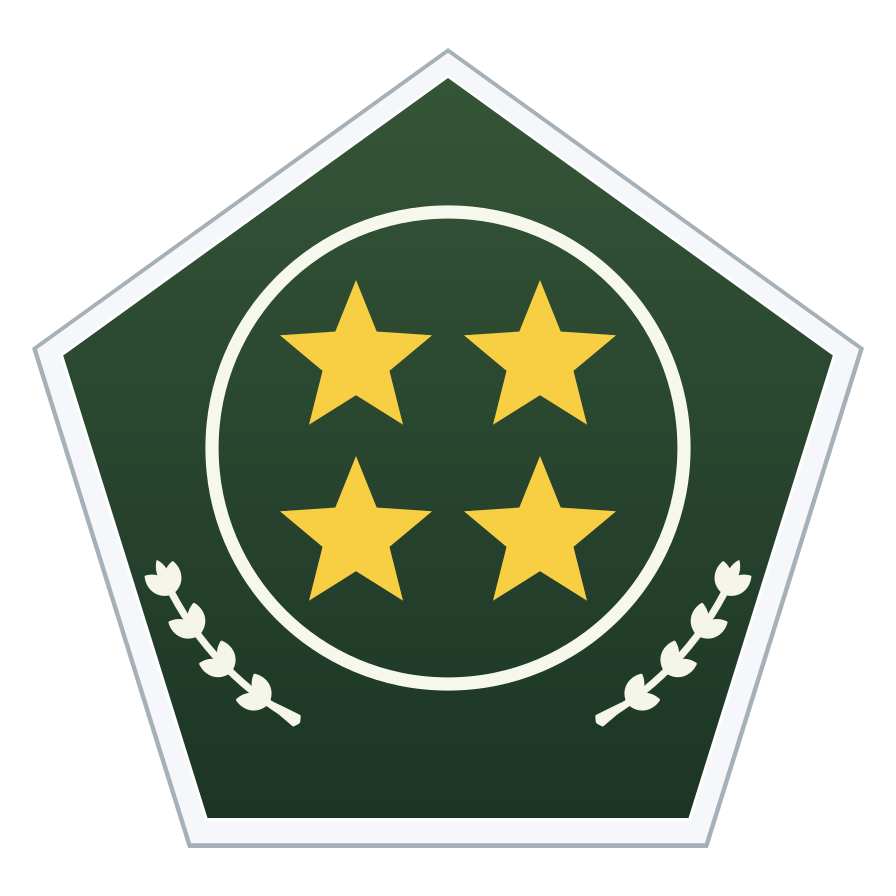
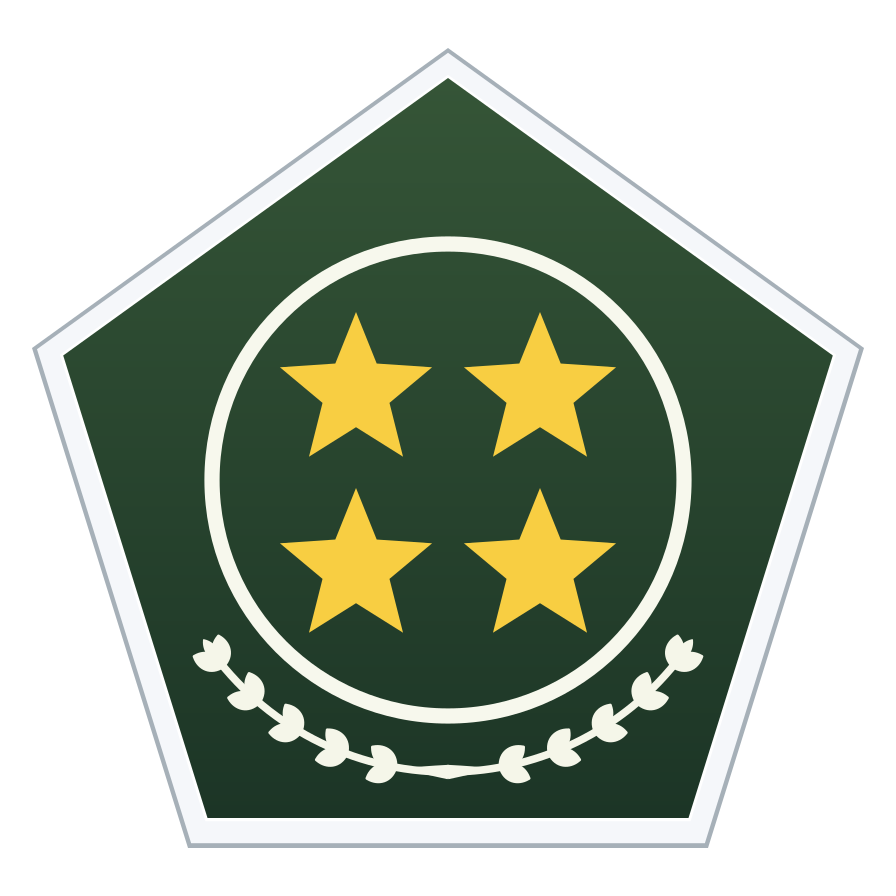
fix: center junior rank rings and join mini laurel roots

Changed region(s): [[0.1562, 0.2188, 0.8438, 0.875]]

diff --git a/src/game/rankBadgeAssets.ts b/src/game/rankBadgeAssets.ts
@@ -14,10 +14,10 @@ export const RANK_BADGE_ASSETS = {
   badge_nco_1: { src: "/assets/rank-badges/ha-si.png?v=bb63086d0176", outerWidthRatio: 832 / RANK_BADGE_SOURCE_SIZE },
   badge_nco_2: { src: "/assets/rank-badges/trung-si.png?v=93dcbb7c6499", outerWidthRatio: 832 / RANK_BADGE_SOURCE_SIZE },
   badge_nco_3: { src: "/assets/rank-badges/thuong-si.png?v=064ff136b099", outerWidthRatio: 832 / RANK_BADGE_SOURCE_SIZE },
-  badge_junior_1: { src: "/assets/rank-badges/thieu-uy.png?v=93d6241949bb", outerWidthRatio: 832 / RANK_BADGE_SOURCE_SIZE },
-  badge_junior_2: { src: "/assets/rank-badges/trung-uy.png?v=6b9c45210b17", outerWidthRatio: 832 / RANK_BADGE_SOURCE_SIZE },
-  badge_junior_3: { src: "/assets/rank-badges/thuong-uy.png?v=94e6093f322f", outerWidthRatio: 832 / RANK_BADGE_SOURCE_SIZE },
-  badge_junior_4: { src: "/assets/rank-badges/dai-uy.png?v=283f3b2cbdc6", outerWidthRatio: 832 / RANK_BADGE_SOURCE_SIZE },
+  badge_junior_1: { src: "/assets/rank-badges/thieu-uy.png?v=257232ba2990", outerWidthRatio: 832 / RANK_BADGE_SOURCE_SIZE },
+  badge_junior_2: { src: "/assets/rank-badges/trung-uy.png?v=9c83b4880719", outerWidthRatio: 832 / RANK_BADGE_SOURCE_SIZE },
+  badge_junior_3: { src: "/assets/rank-badges/thuong-uy.png?v=82741e69aea4", outerWidthRatio: 832 / RANK_BADGE_SOURCE_SIZE },
+  badge_junior_4: { src: "/assets/rank-badges/dai-uy.png?v=9e353520281b", outerWidthRatio: 832 / RANK_BADGE_SOURCE_SIZE },
   badge_field_1: { src: "/assets/rank-badges/thieu-ta.png?v=d65a8dafd3a5", outerWidthRatio: 728 / RANK_BADGE_SOURCE_SIZE },
   badge_field_2: { src: "/assets/rank-badges/trung-ta.png?v=f6a03f27cf65", outerWidthRatio: 728 / RANK_BADGE_SOURCE_SIZE },
   badge_field_3: { src: "/assets/rank-badges/thuong-ta.png?v=4587d0785748", outerWidthRatio: 728 / RANK_BADGE_SOURCE_SIZE },

diff --git a/docs/rank-badges-png.md b/docs/rank-badges-png.md
@@ -1,71 +1,46 @@
 # Bộ huy hiệu vẽ lại sắc nét
 
-Cập nhật nguyệt quế trang nghiêm ngày 08/09/2026: **24 PNG RGBA 896×896**, dựng bằng hình học vector. Ảnh tham chiếu chỉ dùng để quan sát thiết kế; lần này không tham khảo thêm internet. Quy trình render không mở ảnh tham chiếu hay PNG cũ, không crop, trace pixel, upscale hoặc nhúng bitmap vào vector.
+Bộ asset gồm **24 PNG RGBA 896×896**, dựng bằng hình học vector. Ảnh tham chiếu chỉ dùng để quan sát thiết kế; renderer không đọc ảnh tham chiếu hay PNG cũ, không crop, trace pixel, upscale hoặc nhúng bitmap. Lần sửa chi tiết cấp Úy ngày 08/09/2026 không tham khảo thêm internet.
 
-![Bộ 24 huy hiệu mới](rank-badges-redraw.webp)
+![Bộ 24 huy hiệu hiện tại](rank-badges-redraw.webp)
 
-## Tinh chỉnh nguyệt quế và cân bằng thị giác
+## Sửa chi tiết bốn huy hiệu cấp Úy
 
-Lần polish này chỉ thay **17 huy hiệu**: bốn cấp Úy, bốn cấp Tá, bốn cấp Tướng, bốn cấp Tứ Tinh Thủ Hộ và Tổng Tư Lệnh. Bảy huy hiệu Học Viên/Binh/Hạ sĩ quan giữ nguyên từng byte SVG/PNG.
+So với `6897ee5`, chỉ **Thiếu Úy, Trung Úy, Thượng Úy, Đại Úy** thay đổi artwork. Hai mươi PNG/SVG còn lại giữ nguyên nội dung; không đổi tên file, Badge ID, thứ tự cấp, màu nền, viền ngũ giác, số sao hay kiểu sao flat.
 
-- **Gốc/thân/lá chung:** thêm gốc cành thuôn, rộng hơn thân trước cặp lá đầu tiên. Thân liên tục, lá có bụng đầy và chóp bo nhẹ bằng đường cong Bézier; thêm lá tận cùng để thân không kết thúc bằng nét gai trơ. Hai bên dùng cùng hình học phản chiếu.
-- **Úy:** hai nhánh mini đối xứng, tăng từ ba lên bốn cặp lá mỗi nhánh, bước góc 9 độ, thân tăng từ 1,6 lên 1,8 đơn vị. Nhánh ôm hai góc dưới, giữ khoảng hở với vòng trắng, không biến thành vòng nguyệt quế lớn.
-- **Tá:** tăng từ bốn lên sáu cặp lá mỗi bên, bước góc 12 độ. Lá ngắn và đầy hơn, thân tăng từ 1,7 lên 2,1 đơn vị, cuống giao 2,4; đầu cành có lá mềm gọn, tránh dáng dài/thưa giống bông lúa.
-- **Định tâm Úy/Tá:** `officerRing()` và cụm sao cùng dùng `BADGE_CENTER = 112`, tâm `(112,112)` trên canvas logic 224. Đây cũng là tâm bounding box của ngũ giác/lục giác; không bù bằng CSS hay offset riêng từng cấp. Bán kính vòng trắng giữ 59 cho Úy, 57 cho Tá. Nhánh lá được dựng quanh cùng tâm và đối xứng qua trục dọc, có khoảng hở với vòng trắng để giảm cảm giác bị kéo xuống đáy. So sánh trực tiếp cả bốn huy hiệu mỗi nhóm ở cùng kích thước.
-- **Tướng:** giữ cung tròn SVG `A65 65`; tăng từ 10 lên 12 cặp lá mỗi bên, bước góc đều 14 độ. Thân tăng từ 1,6 lên 2,1, cuống giao 2,5 đơn vị; gốc rõ hơn, lá đầy hơn và đỉnh chụm gọn. Cụm sao giữ nguyên.
-- **Thủ Hộ:** cùng vòng tròn bán kính 65 và 12 cặp lá mỗi bên, thân 2,5 và cuống giao 2,9 đơn vị; lá đầy hơn nhóm Tướng, giữ ánh vàng và gân lá tinh tế. Sao ceremonial giữ nguyên hình dáng, bán kính và sắc độ.
-- **Tổng Tư Lệnh:** năm nhánh quay đều từng 72 độ. Mỗi nhánh nối hai điểm lõm dùng chung với nhánh kế bên và vươn tới một đỉnh sao; có gốc thuôn 3,8 và thân 2 đơn vị. Thay các hướng lá đặt riêng bằng quy tắc tiếp tuyến/pháp tuyến của thân, ba cặp trên mỗi nửa nhánh, thu nhỏ dần về đỉnh. Giữ đối xứng và khoảng thoáng quanh sao trung tâm bán kính 45, không đổi khung vàng.
+- **Cân bằng thị giác:** ngũ giác có phần thân dưới rộng hơn nên tâm bounding box không đủ làm chuẩn thị giác. `JUNIOR_OPTICAL_OFFSET_Y = 8` hạ vòng và cụm sao từ (112,112) xuống (112,120) trên canvas logic 224. Bán kính vòng giữ 59. Cặp nguyệt quế dùng cùng offset, tạo bố cục thấp hơn và liền khối. Đối chiếu cả bốn cấp cùng kích thước với cấp Tá; không bù riêng từng huy hiệu hoặc bằng CSS.
+- **Vòng kín:** dùng một phần tử SVG circle nguyên vẹn, không dash, clip hay mask. Nét đều tăng từ 3,3 lên 3,8 đơn vị để rõ hơn khi thu nhỏ. Vòng được vẽ sau phần cành lá; sao giữ trong vòng. Kiểm tra trực tiếp chu vi raster của cả bốn PNG ở 896/224/96/50/24px.
+- **Gốc chụm giữa:** hai thân cung tròn cùng xuất phát từ (112,193) sau offset, phản chiếu qua trục dọc. Mỗi gốc rộng 3,61 đơn vị rồi thuôn về thân 1,9; thân tỏa trái/phải và vòng lên, không còn hai cụm rời.
+- **Mini laurel:** mỗi bên có năm cặp lá và một lá tận cùng, bước góc 10 độ, lá đầy hơn nhưng vẫn nhỏ hơn cấp Tá. Cung chỉ 55 độ so với 74 độ ở Tá, nên cặp cành thấp và gọn hơn. Lá gắn vào thân liên tục, chóp bo nhẹ; giữ khoảng trống với vòng trắng và cụm sao.
+- **Hình học chung:** `juniorOfficerBase()` dựng cùng nền, cành và vòng cho cả bốn huy hiệu. Chỉ nhóm sao 1/2/3/4 thay đổi; hình sao, màu và bán kính 20 giữ nguyên, toàn cụm chỉ dịch xuống 8 đơn vị.
 
-Các chi tiết được dựng lại từ đường vector, không sử dụng pixel/crop từ ảnh tham chiếu. Không đổi shape nền, palette, số sao, kiểu sao, tên file hay Badge ID. Alpha đường bao và outer ratio của cả 24 PNG giữ nguyên, nên `RankBadge`, `RankTierProgress` và tất cả caller không cần sửa. Registry chỉ cập nhật hash của 17 PNG thay đổi để trình duyệt nhận ảnh mới.
+## Quy chuẩn các nhóm khác
 
-## Quy chuẩn thiết kế
+- Học Viên: khung bạc và nhân vật đội mũ lính dựng bằng vector, gradient kim loại sạch.
+- Binh Bét/Nhì/Nhất: 1/2/3 thanh vàng; Hạ/Trung/Thượng Sĩ: 1/2/3 chữ V trắng.
+- Tá: vòng trắng tâm (112,112), bán kính 57; sáu cặp lá mỗi bên, thân 2,1 và cuống giao 2,4 đơn vị. Sao flat cùng bán kính 20 với Úy/Tướng.
+- Tướng: vòng nguyệt quế tròn bán kính 65, 12 cặp lá mỗi bên, thân 2,1 và cuống giao 2,5; sao flat.
+- Tứ Tinh Thủ Hộ: cùng vòng tròn bán kính 65 và 12 cặp lá mỗi bên; thân 2,5, cuống giao 2,9; lá vàng có gân và sao ceremonial bán kính 20.
+- Tổng Tư Lệnh: năm nhánh quay đều từng 72 độ, hướng lá theo tiếp tuyến/pháp tuyến của thân, gốc thuôn 3,8 và thân 2 đơn vị. Sao ceremonial trung tâm bán kính 45, lớn nhất bộ; khung mười cạnh vàng.
 
-- Học Viên: khung bạc dập nổi, các góc lõm và mặt cười đội mũ lính được dựng lại bằng đường vector, gradient kim loại sạch.
-- Binh Bét/Nhì/Nhất: 1/2/3 thanh vàng có chung chiều rộng, độ dày và khoảng cách.
-- Hạ/Trung/Thượng Sĩ: 1/2/3 chữ V trắng có chung hình học, độ dày và bước dọc.
-- Úy/Tá/Tướng: chung một silhouette sao năm cánh phẳng, màu `#f8ce42`, bán kính **20 đơn vị** trên canvas logic 224. Từng sao giữ cùng kích thước ở mọi cấp 1–4 sao và cả ba nhóm. Bố cục lần lượt giữa tâm, hàng ngang, tam giác hướng lên, lưới 2×2.
-- Tứ Tinh Thủ Hộ: cùng silhouette và bán kính 20; sao ceremonial có các mặt sáng tối vàng nhẹ, đồng nhất cho cả bốn cấp. Nền obsidian, viền và vòng nguyệt quế vàng.
-- Tổng Tư Lệnh: sao ceremonial riêng có tương phản kim loại mạnh hơn, bán kính **45 đơn vị**, lớn gấp 2,25 lần bán kính sao các cấp còn lại. Nền đỏ sâu, khung mười cạnh vàng và đúng năm cụm nguyệt quế đối xứng quanh tâm.
-- Khung ngũ giác, lục giác, bát giác và mười cạnh được dựng đối xứng; chồi lá/nhánh lá dùng các đường cong sạch. Không dùng noise, blur, bóng mờ ngoài huy hiệu, text hoặc nhãn trong asset.
+## Asset và tích hợp
 
-## Kích thước và hiển thị
+- PNG trong game: `public/assets/rank-badges/`; SVG master: `art/rank-badges/`.
+- Canvas logic 224×224; xuất trực tiếp từ vector thành 896×896. Padding alpha tối thiểu 32px; không phóng PNG nhỏ.
+- Tổng dung lượng 24 PNG hiện tại: **2.009.676 byte**. SVG và ảnh tổng quan nằm ngoài public.
+- `src/game/rankBadgeAssets.ts` giữ đủ 24 ID, đường dẫn file và outer ratio; lần này chỉ đổi hash nội dung của bốn URL cấp Úy để nhận ảnh mới.
+- Alpha của toàn bộ PNG giống bản trước. RankBadge, RankTierProgress, HomeXpJourney, modal, danh sách, hồ sơ và các caller tiếp tục dùng nguyên layout, kích thước và component chung.
+- Không sửa XP, catalog/families, tierCount, save/migration, phần thưởng hoặc tương tác game.
 
-- PNG dùng trong game: `public/assets/rank-badges/`, giữ 24 tên file ổn định.
-- Vector master: `art/rank-badges/`, 24 SVG độc lập, không chứa ảnh nhúng. Nguồn chuẩn để chỉnh sửa và xuất lại là script dựng hình.
-- Canvas logic 224×224, safe padding 8 đơn vị; xuất trực tiếp thành PNG 896×896 từ vector, không phóng PNG 224 cũ. Lề alpha thực tế tối thiểu 32 pixel.
-- Nguồn 896 hỗ trợ huy hiệu Home ở 224 CSS px trên màn hình DPR đến 4. File lớn không tăng diện tích layout: wrapper tiếp tục dùng caller `size` / `--rank-badge-size`, ảnh `object-contain`, intrinsic width/height lấy từ `RANK_BADGE_SOURCE_SIZE`.
-- Tổng dung lượng 24 PNG: **2.003.721 byte**. SVG và ảnh tổng quan nằm ngoài `public`, không được tải vào UI game.
+## Xuất lại và kiểm tra
 
-## Registry và phạm vi code
-
-- `src/game/rankBadgeAssets.ts`: đủ 24 Badge ID hiện có, gồm Đại Thống Soái; ánh xạ URL và chiều rộng artwork đo từ alpha ≥128. Khai báo chung source size, logical size và safe padding. URL có hash nội dung để cache phân biệt ảnh mới.
-- `src/components/RankBadge.tsx`: intrinsic dimensions đổi sang hằng số 896; giữ nguyên props, nhãn truy cập, fallback, glow, khóa, current state và CSS scale.
-- `RankTierProgress` tiếp tục dùng `outerWidthRatio` từ registry, nên tự nhận tỷ lệ của artwork mới mà không cần thay logic thanh bậc.
-- `scripts/assets/render_rank_badges.cjs`: thay cho script cắt ảnh cũ đã xóa, dựng toàn bộ artwork bằng vector và xuất PNG/registry.
-- `docs/rank-badges-redraw.webp`: ảnh tổng quan để xem nhanh, không phải asset dùng trong game.
-
-Mọi nơi dùng component chung nhận artwork mới: Home và hai endpoint XP 50px, danh sách/chi tiết quân hàm, hành trình, nhiệm vụ hành trình, thử thách/lễ thăng cấp, hồ sơ, nhật ký, bộ chọn/huy hiệu trước ngực quân phục và điều kiện quân hàm trong Tăng Gia. Không đổi XP, ID/tên/thứ tự quân hàm, tierCount, save/migration, phần thưởng hoặc các tương tác.
-
-## Xuất lại
-
-Script cần Node.js và Sharp (lần xuất này dùng Sharp **0.35.4**, librsvg 2.62.91). Đây là công cụ authoring, không phải dependency runtime của game. Trỏ `NODE_PATH` đến bộ công cụ đã cài Sharp:
+Nguồn chuẩn: `scripts/assets/render_rank_badges.cjs`. Dùng Node.js và Sharp **0.35.4**, librsvg 2.62.91; Sharp là công cụ authoring, không phải dependency runtime của game. Trỏ NODE_PATH đến bộ công cụ có Sharp:
 
 ```sh
 NODE_PATH=/path/to/node_modules node scripts/assets/render_rank_badges.cjs
+NODE_PATH=/path/to/node_modules node scripts/assets/audit_rank_badges.cjs 6897ee5 junior
 ```
 
-Không truyền thư mục ảnh tham chiếu: renderer không nhận đầu vào raster. Khi chỉnh artwork, sửa script rồi xuất lại cả SVG master, PNG và registry. Hash/outer ratio được tính lại từ PNG mới.
+Renderer xuất SVG, PNG, registry và ảnh tổng quan. Audit chế độ junior xác nhận đúng bốn PNG thay đổi, 20 PNG còn lại giữ nguyên từng byte, alpha/outer ratio/mapping giữ nguyên, hash khớp file, sao giữ nguyên artwork, bốn base giống nhau, gốc giữa và vòng trắng kín qua lấy mẫu chu vi raster. Khi so sánh lần polish trước trên đúng checkout 6897ee5, dùng audit với baseline 594da9d và bỏ đối số junior.
 
-Renderer cũng xuất ảnh tổng quan. Kiểm tra phạm vi polish so với commit trước bằng cùng môi trường Sharp:
-
-```sh
-NODE_PATH=/path/to/node_modules node scripts/assets/audit_rank_badges.cjs 594da9d
-```
-
-## Rà soát đã thực hiện
-
-- Audit so với `594da9d`: đủ 24 ID và mapping/outer ratio giữ nguyên; đúng 17 PNG thay đổi và bảy PNG giữ nguyên từng byte. Tất cả RGBA 896×896, alpha giống hoàn toàn bản trước, padding tối thiểu 32px; hash URL khớp file.
-- Rà SVG: không nhúng bitmap, không text, không bộ lọc blur. Toàn bộ nhóm sao (cả đường nét, số lượng, vị trí và mặt sáng tối) giống bản trước; đúng năm cụm Tổng Tư Lệnh quay 0/72/144/216/288 độ; tất cả 17 huy hiệu có gốc cành mới.
-- Xem ảnh tổng quan 224px và đại diện năm nhóm ở 96/50/24px trên nền sáng/tối. Đây là xem file artwork, không chạy game. Vòng trắng Úy/Tá giữ đúng tâm (112,112), bán kính 59/57, được đối chiếu cùng bố cục lá mới; vòng Tướng/Thủ Hộ giữ tròn bán kính 65.
-- `npm run lint` và `npm run build` đạt; build còn cảnh báo bundle lớn hơn 500 kB. `git diff --check` đạt. Mã XP, catalog/families, lưu trữ, các màn hình, HomeXpJourney và RankTierProgress không thay đổi.
-- Chưa chạy game hoặc QA giao diện bằng trình duyệt; kết quả trên xác nhận asset và kiểm tra tĩnh, không thay cho kiểm chứng runtime.
+Đã xem bộ bốn cấp Úy cạnh cấp Tá ở cùng kích thước, kiểm tra thêm 96/50/24px trên nền sáng/tối. `npm run lint`, `npm run build` và `git diff --check` đạt; build còn cảnh báo bundle lớn hơn 500 kB. Chưa chạy game hoặc QA giao diện bằng trình duyệt; đây là kiểm tra asset và kiểm tra tĩnh, không thay cho xác nhận runtime.
